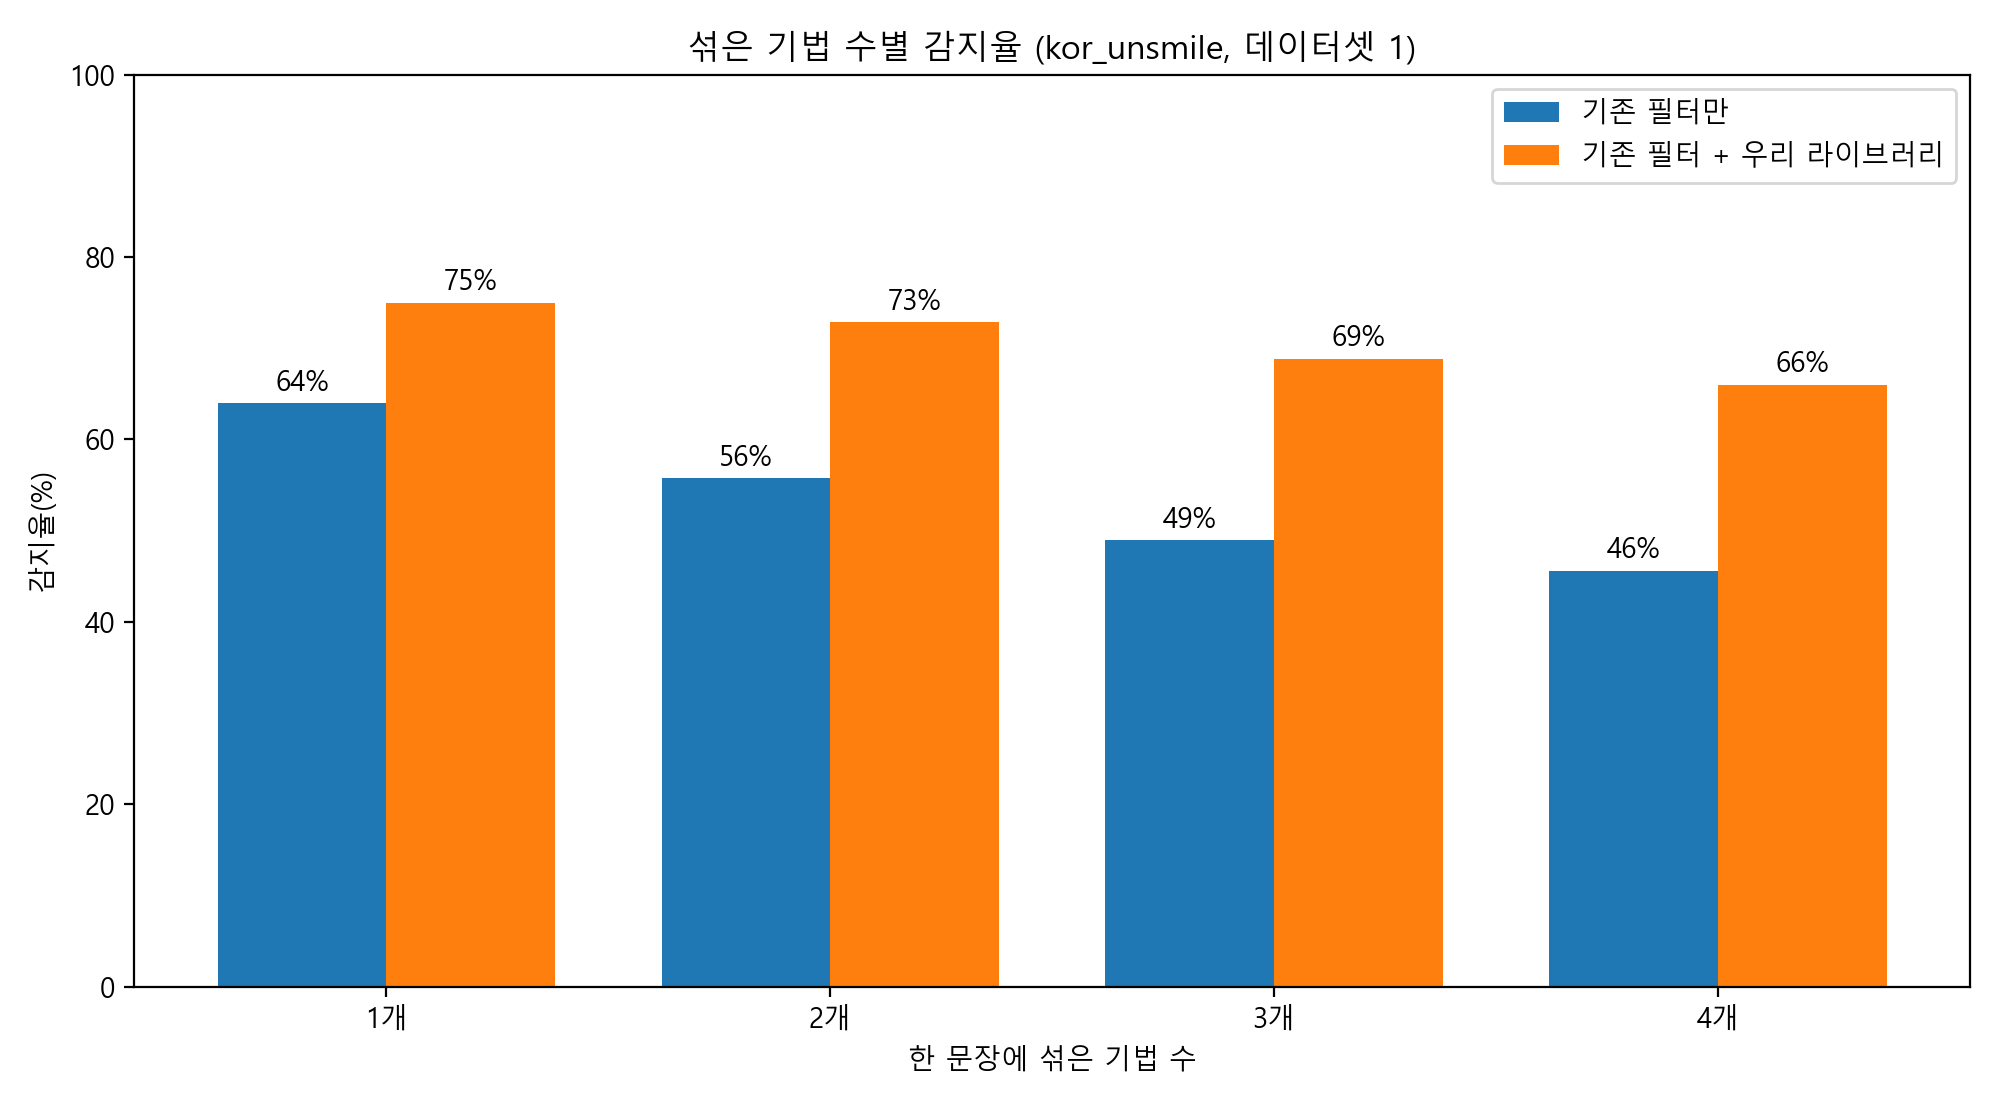
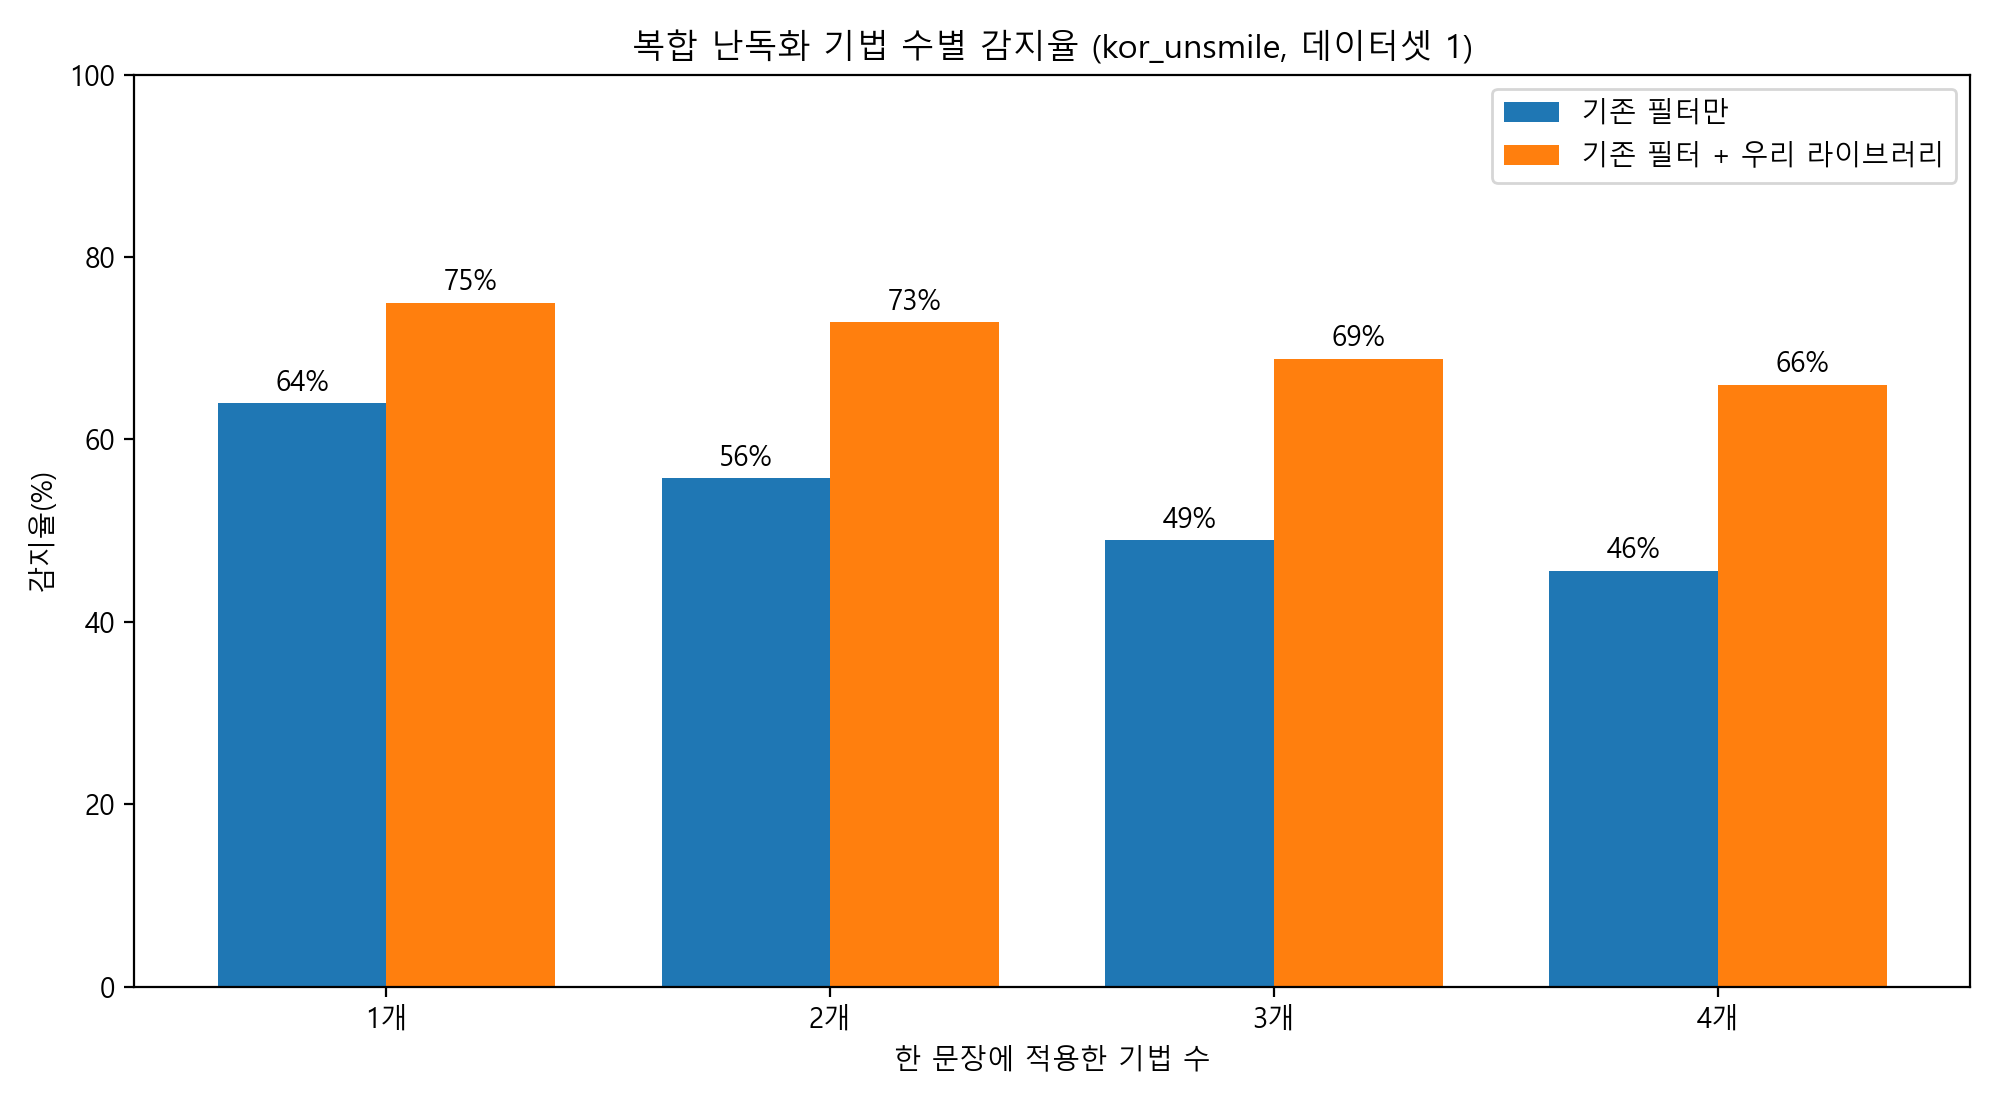
docs(guardrail): P05 슬라이드 표기 '섞은 난독화'를 '복합 난독화'로 변경

Changed region(s): [[0.31, 0.0309, 0.744, 0.0618], [0.434, 0.9273, 0.589, 0.9891]]

diff --git a/guardrail/exp/p05_profanity/make_slides.py b/guardrail/exp/p05_profanity/make_slides.py
@@ -5,7 +5,7 @@
 p05-mixed-obfuscation)이고, 지표는 난독화된 욕설 중 차단된 비율(감지율)이다. 모든 수치는 results/p05.*/scores.jsonl에서
 다시 계산한다.
 
-데이터셋 표기(발표용): 데이터셋 1 = p04mix(복원 대상 9유형만 섞음), 데이터셋 2 = compose(경계 유형 포함 섞음).
+데이터셋 표기(발표용): 데이터셋 1 = p04mix(복원 대상 9유형만 복합 적용), 데이터셋 2 = compose(경계 유형 포함 복합 적용).
 
     python guardrail/exp/p05_profanity/make_slides.py   # 저장소 루트에서 -> reports/figures/p05/slide_*.png, slides_text.md
 """
@@ -37,7 +37,7 @@ RUNS = {  # (필터, 데이터) -> (단독 run, 복원기 run)
     ("korcen", "single"): ("p05.1-korcen", "p05.3-korcen-restored"),
     ("korcen", "d2"): ("p05.9-korcen-compose", "p05.11-korcen-compose-restored"),
 }
-DATA = {"single": "단일 난독화", "d1": "섞은 난독화 · 데이터셋 1", "d2": "섞은 난독화 · 데이터셋 2"}
+DATA = {"single": "단일 난독화", "d1": "복합 난독화 · 데이터셋 1", "d2": "복합 난독화 · 데이터셋 2"}
 
 
 def load(run: str) -> dict:
@@ -91,7 +91,7 @@ def grouped(categories, lo, hi, title, xlabel, name, rot=0):
 def slide1() -> dict:
     keys = list(RUNS)
     vals = {k: detect(*RUNS[k])["all"] for k in keys}
-    short = {"single": "단일", "d1": "섞은 1", "d2": "섞은 2"}
+    short = {"single": "단일", "d1": "복합 1", "d2": "복합 2"}
     grouped([f"{f}\n{short[d]}" for f, d in keys], [vals[k][0] for k in keys], [vals[k][1] for k in keys],
             "난독화된 욕설 감지율", "필터 · 데이터셋", "slide_1_detection.png")
     return vals
@@ -102,7 +102,7 @@ def slide2() -> dict:
     ns = sorted(k for k in d if d[k][2] > 100)
     xs = [int(k.split("=")[1]) for k in ns]
     lo, hi = [d[k][0] for k in ns], [d[k][1] for k in ns]
-    grouped([f"{x}개" for x in xs], lo, hi, "섞은 기법 수별 감지율 (kor_unsmile, 데이터셋 1)", "한 문장에 섞은 기법 수",
+    grouped([f"{x}개" for x in xs], lo, hi, "복합 난독화 기법 수별 감지율 (kor_unsmile, 데이터셋 1)", "한 문장에 적용한 기법 수",
             "slide_2_mixed.png")
     return {"ns": xs, "lo": lo, "hi": hi}
 
@@ -151,8 +151,9 @@ def text(v1, v2, v3) -> str:
 
 - **평가 문장**: 공개 커뮤니티 댓글 욕설 데이터(Curse-detection, 5,825문장 중 욕설 2,044문장)
 - **단일 난독화**: 욕설 문장마다 난독화 기법 하나씩 적용(24개 기법)
-- **섞은 난독화 · 데이터셋 1**: 한 문장에 기법 1~4개를 섞음. 우리 라이브러리가 복원하도록 설계된 9개 유형만 사용
-- **섞은 난독화 · 데이터셋 2**: 한 문장에 기법 2~4개를 섞음. 복원 범위 밖의 모양 바꾸기(야민정음·닮은 외국문자 등)까지 포함한 더 현실적인 조건
+- **복합 난독화**: 한 문장에 난독화 기법 여러 개를 동시에 적용한 것(예: 된소리 + 받침 추가 + 기호 삽입)
+- **복합 난독화 · 데이터셋 1**: 한 문장에 기법 1~4개를 적용. 우리 라이브러리가 복원하도록 설계된 9개 유형만 사용
+- **복합 난독화 · 데이터셋 2**: 한 문장에 기법 2~4개를 적용. 복원 범위 밖의 모양 바꾸기(야민정음·닮은 외국문자 등)까지 포함한 더 현실적인 조건
 - **우리 라이브러리 적용 방식**: 기존 필터는 그대로 두고, 원문과 복원문을 둘 다 검사해 하나라도 걸리면 차단
 - **기존 필터**: kor_unsmile(공개 ML 분류기), korcen(공개 규칙 기반 필터)
 
@@ -165,9 +166,9 @@ def text(v1, v2, v3) -> str:
 
 ## 슬라이드 2 — `slide_2_mixed.png`
 
-- 제목: **섞을수록 기존 필터는 무너지고, 우리 라이브러리와의 차이는 벌어진다**
-- 한 줄 설명: kor_unsmile, 한 문장에 섞은 난독화 기법 수별 감지율(데이터셋 1)
-- 말할 거리: 기법 4개를 섞으면 기존 필터는 {v2['lo'][-1]:.0f}%만 잡지만, 우리 라이브러리를 붙이면 {v2['hi'][-1]:.0f}%(+{v2['hi'][-1] - v2['lo'][-1]:.0f}%p)
+- 제목: **기법을 겹칠수록 기존 필터는 무너지고, 우리 라이브러리와의 차이는 벌어진다**
+- 한 줄 설명: kor_unsmile, 한 문장에 적용한 난독화 기법 수별 감지율(복합 난독화 데이터셋 1)
+- 말할 거리: 기법 4개를 겹치면 기존 필터는 {v2['lo'][-1]:.0f}%만 잡지만, 우리 라이브러리를 붙이면 {v2['hi'][-1]:.0f}%(+{v2['hi'][-1] - v2['lo'][-1]:.0f}%p)
 - 각주: 데이터셋 2(복원 범위 밖 유형 포함)에서도 +12~14%p 차이 유지
 
 ## 슬라이드 3 — `slide_3_by_type.png`

diff --git a/guardrail/reports/figures/p05/slides_text.md b/guardrail/reports/figures/p05/slides_text.md
@@ -7,8 +7,9 @@
 
 - **평가 문장**: 공개 커뮤니티 댓글 욕설 데이터(Curse-detection, 5,825문장 중 욕설 2,044문장)
 - **단일 난독화**: 욕설 문장마다 난독화 기법 하나씩 적용(24개 기법)
-- **섞은 난독화 · 데이터셋 1**: 한 문장에 기법 1~4개를 섞음. 우리 라이브러리가 복원하도록 설계된 9개 유형만 사용
-- **섞은 난독화 · 데이터셋 2**: 한 문장에 기법 2~4개를 섞음. 복원 범위 밖의 모양 바꾸기(야민정음·닮은 외국문자 등)까지 포함한 더 현실적인 조건
+- **복합 난독화**: 한 문장에 난독화 기법 여러 개를 동시에 적용한 것(예: 된소리 + 받침 추가 + 기호 삽입)
+- **복합 난독화 · 데이터셋 1**: 한 문장에 기법 1~4개를 적용. 우리 라이브러리가 복원하도록 설계된 9개 유형만 사용
+- **복합 난독화 · 데이터셋 2**: 한 문장에 기법 2~4개를 적용. 복원 범위 밖의 모양 바꾸기(야민정음·닮은 외국문자 등)까지 포함한 더 현실적인 조건
 - **우리 라이브러리 적용 방식**: 기존 필터는 그대로 두고, 원문과 복원문을 둘 다 검사해 하나라도 걸리면 차단
 - **기존 필터**: kor_unsmile(공개 ML 분류기), korcen(공개 규칙 기반 필터)
 
@@ -21,9 +22,9 @@
 
 ## 슬라이드 2 — `slide_2_mixed.png`
 
-- 제목: **섞을수록 기존 필터는 무너지고, 우리 라이브러리와의 차이는 벌어진다**
-- 한 줄 설명: kor_unsmile, 한 문장에 섞은 난독화 기법 수별 감지율(데이터셋 1)
-- 말할 거리: 기법 4개를 섞으면 기존 필터는 46%만 잡지만, 우리 라이브러리를 붙이면 66%(+20%p)
+- 제목: **기법을 겹칠수록 기존 필터는 무너지고, 우리 라이브러리와의 차이는 벌어진다**
+- 한 줄 설명: kor_unsmile, 한 문장에 적용한 난독화 기법 수별 감지율(복합 난독화 데이터셋 1)
+- 말할 거리: 기법 4개를 겹치면 기존 필터는 46%만 잡지만, 우리 라이브러리를 붙이면 66%(+20%p)
 - 각주: 데이터셋 2(복원 범위 밖 유형 포함)에서도 +12~14%p 차이 유지
 
 ## 슬라이드 3 — `slide_3_by_type.png`
